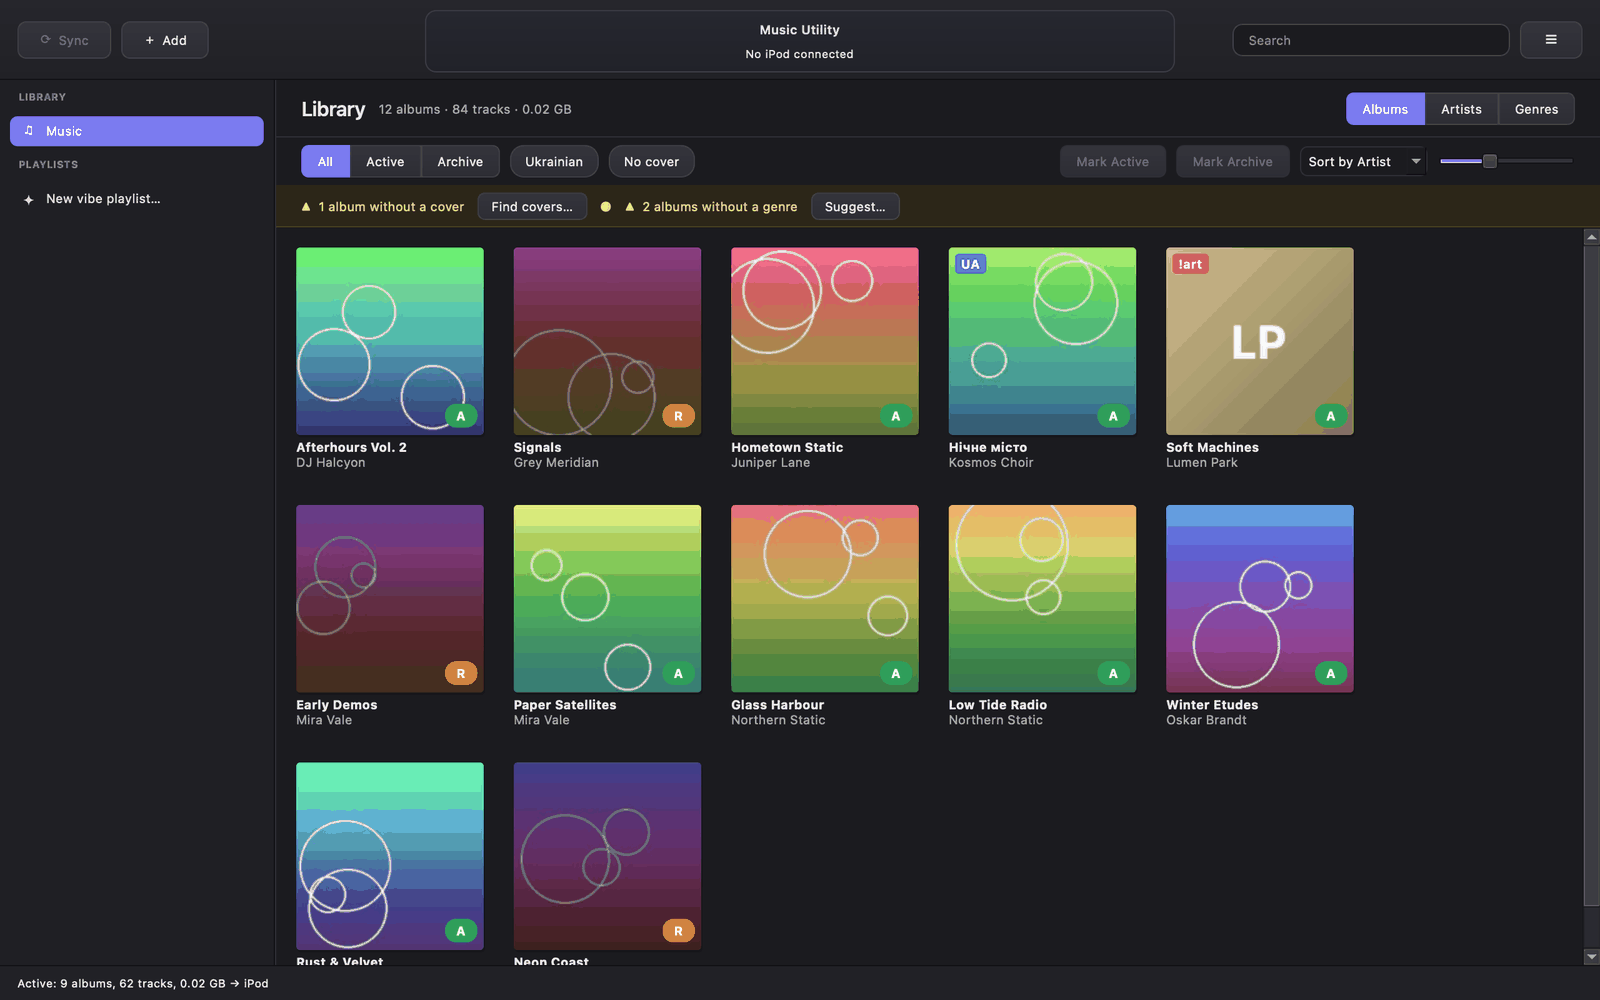
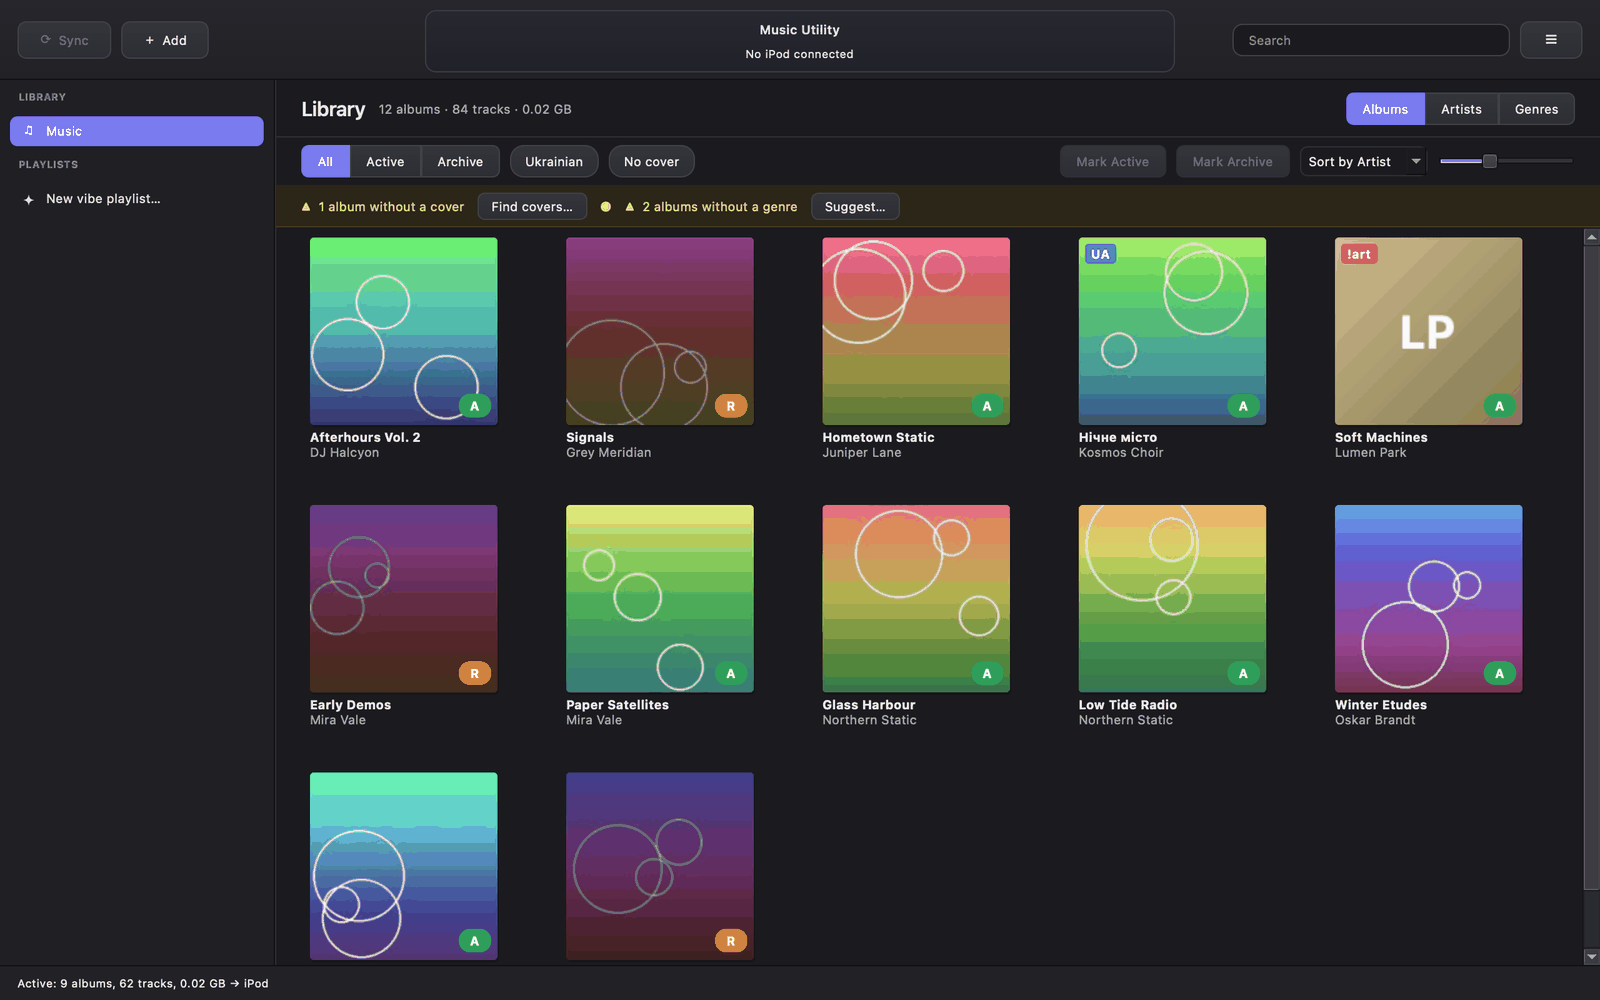
Window fixes, CI on three systems, sample tracklist
- window: tools that read a field work again (_text was shadowed by a
  string); justified album grid; long header paths cut in the middle;
  readable choice labels; Choose… for the iPod mount point; number
  fields without the shrunken arrows; only installed fonts requested;
  narrower artist list
- data/tracklist.example.txt with made-up tracks; the personal
  data/tracklist.txt is git-ignored
- GitHub Actions on Windows, macOS, Linux: requirements, ruff, smoke tests
- lint cleanup; README: Python 3.12+, CI badge, refreshed screenshots

Changed region(s): [[0.1875, 0.496, 0.9688, 0.961], [0.1875, 0.217, 0.9688, 0.465]]

diff --git a/src/gui/pages.py b/src/gui/pages.py
@@ -4,21 +4,27 @@ import os
 
 import settings
 from PyQt6.QtCore import QSize, Qt, QTimer, pyqtSignal
-from PyQt6.QtGui import QColor, QKeySequence, QShortcut
-from PyQt6.QtWidgets import (QAbstractItemView, QButtonGroup, QCheckBox, QComboBox, QCompleter,
+from PyQt6.QtGui import QColor
+from PyQt6.QtWidgets import (QAbstractItemView, QAbstractSpinBox, QButtonGroup, QCheckBox, QComboBox, QCompleter,
                              QDialog, QListWidget, QListWidgetItem, QPushButton,
                              QFileDialog, QFrame, QGridLayout, QHBoxLayout, QHeaderView,
                              QInputDialog, QLabel, QLineEdit, QListView, QPlainTextEdit,
                              QRadioButton, QScrollArea, QSlider, QSpinBox, QSplitter,
-                             QStackedWidget, QStyledItemDelegate, QTableWidget, QTableWidgetItem,
+                             QStackedWidget, QStyledItemDelegate, QStyleOptionViewItem, QTableWidget, QTableWidgetItem,
                              QTabWidget,
                              QVBoxLayout, QWidget)
 
 from gui import backend
 from gui.theme import C, COLUMNS, GLYPHS, UI
-from gui.widgets import (AlbumDelegate, AlbumModel, CapacityBar, Card, IpodPicture, ask,
+from gui.widgets import (AlbumDelegate, AlbumModel, CapacityBar, Card, ElidedLabel, IpodPicture, ask,
                          button, covers, fmt_gb, fmt_time, fmt_total, inform, muted, placeholder,
                          plural, run_async)
+
+
+# how the stored values of choice settings read in the window
+CHOICE_LABELS = {"active": "Active", "archive": "Archive", "auto": "Auto",
+                 "cli": "Claude Code (subscription)", "gemini": "Gemini (free key)",
+                 "api": "Anthropic API (paid)"}
 
 
 class Page(QWidget):
@@ -39,7 +45,8 @@ class Page(QWidget):
         self.head.setSpacing(10)
         self.title = QLabel(title)
         self.title.setObjectName("viewTitle")
-        self.sub = muted("", wrap=False)
+        self.sub = ElidedLabel()
+        self.sub.setProperty("muted", True)
         self.head.addWidget(self.title)
         self.head.addWidget(self.sub)
         self.head.addStretch(1)
@@ -154,6 +161,28 @@ class Grid(QListView):
     key_mark = pyqtSignal(str)
     key_open = pyqtSignal()
     key_escape = pyqtSignal()
+
+    def justify(self):
+        """Spread the columns over the whole width: no empty strip on the right."""
+        m, d = self.model(), self.itemDelegate()
+        if m is None or d is None or not m.rowCount():
+            return
+        hint = d.sizeHint(QStyleOptionViewItem(), m.index(0, 0))
+        # the view keeps a spacing-wide margin on both sides
+        width = self.viewport().width() - 2 * self.spacing() - 1
+        cols = max(1, width // (hint.width() + self.spacing()))
+        size = QSize(width // cols, hint.height() + self.spacing())
+        if size != self.gridSize():
+            self.setGridSize(size)
+
+    def resizeEvent(self, e):
+        super().resizeEvent(e)
+        self.justify()
+
+    def updateGeometries(self):
+        # also runs when the scroll bar comes or goes and the viewport changes width
+        super().updateGeometries()
+        QTimer.singleShot(0, self.justify)
 
     def keyPressEvent(self, e):
         k, t = e.key(), e.text().lower()
@@ -975,6 +1004,8 @@ class VibePage(Page):
         chips.addStretch(1)
         card.lay.addLayout(chips)
         self.count = QSpinBox()
+        # the styled frame leaves the native up/down arrows as specks: type, wheel or ↑↓
+        self.count.setButtonSymbols(QAbstractSpinBox.ButtonSymbols.NoButtons)
         self.count.setRange(5, 200)
         go = button("Make the playlist", primary=True)
         go.clicked.connect(self._go)
@@ -1325,7 +1356,7 @@ class SettingsPage(Page):
         values = values or settings.defaults()
         self.title.setText("Welcome to Music Utility" if self.first else "Settings")
         self.sub.setText("a few basic settings — everything can be changed later" if self.first
-                         else settings.FILE)
+                         else settings.FILE.replace(os.path.expanduser("~"), "~", 1))
         self.widgets.clear()
         self.errors.clear()
         section = None
@@ -1348,18 +1379,19 @@ class SettingsPage(Page):
             v = values.get(f.key)
             if f.kind == "choice":
                 w = QComboBox()
-                w.addItems(f.options)
-                if v in f.options:
-                    w.setCurrentText(v)
+                for opt in f.options:
+                    w.addItem(CHOICE_LABELS.get(opt, opt), opt)
+                w.setCurrentIndex(max(0, w.findData(v)))
             elif f.kind == "int":
                 w = QSpinBox()
+                w.setButtonSymbols(QAbstractSpinBox.ButtonSymbols.NoButtons)
                 w.setRange(1, 2 ** 31 - 1)       # settings.validate: any whole number > 0
                 try:
                     w.setValue(int(v))
                 except (TypeError, ValueError):
                     w.setValue(int(f.default))
-            elif f.kind in ("dir", "file"):
-                w = PathField(f.kind, "" if v is None else v)
+            elif f.kind in ("dir", "file") or f.key == "ipod_mount":
+                w = PathField("dir" if f.key == "ipod_mount" else f.kind, "" if v is None else v)
             else:
                 w = QLineEdit("" if v is None else str(v))
             grid.addWidget(label, 0, 0, Qt.AlignmentFlag.AlignTop)
@@ -1393,7 +1425,7 @@ class SettingsPage(Page):
         out = {}
         for key, w in self.widgets.items():
             if isinstance(w, QComboBox):
-                out[key] = w.currentText()
+                out[key] = w.currentData()
             elif isinstance(w, QSpinBox):
                 out[key] = str(w.value())
             elif isinstance(w, PathField):

diff --git a/src/gui/theme.py b/src/gui/theme.py
@@ -5,8 +5,10 @@ library) but the look is our own: flat light chrome, an indigo accent. Light by
 default; dark when the system is dark. Nothing visual is hard-coded elsewhere.
 """
 
+import functools
+
 from PyQt6.QtCore import QRect, Qt
-from PyQt6.QtGui import QColor, QFont, QGuiApplication, QIcon, QPainter, QPalette, QPixmap
+from PyQt6.QtGui import QColor, QFont, QFontDatabase, QGuiApplication, QIcon, QPainter, QPalette, QPixmap
 
 # Colours are "#RRGGBB" or "#AARRGGBB"; the ones only the stylesheet uses may be rgba().
 LIGHT = dict(
@@ -57,7 +59,7 @@ DARK = dict(
 )
 
 FONTS = dict(
-    mono='"Cascadia Mono", Consolas, Menlo, monospace',
+    mono=["Cascadia Mono", "Consolas", "Menlo", "DejaVu Sans Mono"],
     # symbol fonts first, so a symbol is drawn as a plain glyph, never as a colour emoji
     symbols=["Segoe UI Symbol", "Apple Symbols", "Noto Sans Symbols 2", "DejaVu Sans"],
 )
@@ -87,7 +89,7 @@ UI = dict(
     side_w=220, side_min=180, side_row=26, side_device_row=44, side_head=28, icon=16,
     side_capacity_h=4, side_eject=22, side_pad=6, side_gap=10,
     tile=150, tile_range=(100, 240), thumb=256, cover_large=640, detail_cover=220,
-    artists_w=230, ipod_picture=(112, 184), capacity_h=40, vibe_text_h=80,
+    artists_w=190, ipod_picture=(112, 184), capacity_h=40, vibe_text_h=80,
     close_button_w=30, slider_w=110,
     poll_ms=3000, sheet_refresh_ms=150, lcd_refresh_ms=250, eject_repoll_ms=1500,
     note_s=6, toast_ms=5000, toast_bad_ms=8000, toast_w=420, toast_gap=14, list_preview=12,
@@ -235,9 +237,16 @@ QToolTip {{ color: {text}; background: {sheet}; border: 1px solid {line}; }}
 """
 
 
+@functools.cache
+def _installed(kind):
+    # only the installed ones: a missing family makes Qt rebuild its font aliases
+    have = set(QFontDatabase.families())
+    return [f for f in FONTS[kind] if f in have] or FONTS[kind][-1:]
+
+
 def symbol_font(px):
     f = QFont()
-    f.setFamilies(FONTS["symbols"])
+    f.setFamilies(_installed("symbols"))
     f.setPixelSize(px)
     return f
 
@@ -276,4 +285,4 @@ def apply(app):
                       (QPalette.ColorRole.Link, "accent")):
         pal.setColor(role, QColor(C[key]))
     app.setPalette(pal)
-    app.setStyleSheet(QSS.format(**C, mono=FONTS["mono"]))
+    app.setStyleSheet(QSS.format(**C, mono=", ".join(f'"{f}"' for f in _installed("mono")) + ", monospace"))

diff --git a/tests/test_smoke.py b/tests/test_smoke.py
@@ -1,0 +1,47 @@
+"""Smoke checks that run anywhere without a library or an iPod.
+
+    python -m unittest discover tests
+"""
+
+import os
+import sys
+import tempfile
+import unittest
+
+ROOT = os.path.dirname(os.path.dirname(os.path.abspath(__file__)))
+sys.path.insert(0, os.path.join(ROOT, "src"))
+# a throwaway settings file: nothing here may touch the real one
+os.environ["MUSIC_UTILITY_SETTINGS"] = os.path.join(tempfile.mkdtemp(), "settings.json")
+
+from gui import backend  # noqa: E402  (plain Python: no Qt imported)
+
+
+class ToolArgs(unittest.TestCase):
+    def test_tools_that_read_a_field(self):
+        # _text was once shadowed by a string: every such tool failed
+        self.assertEqual(backend.tool_steps("vibe", {"vibe": "rain", "count": "10"}, False),
+                         [["vibe.py", "rain", "--count", "10"]])
+        self.assertEqual(backend.tool_steps("disk", {"drive": "/Volumes/X"}, False),
+                         [["ipod_sync.py", "--disk", "/Volumes/X"]])
+        self.assertEqual(backend.tool_steps("disk", {"drive": "E:"}, False),
+                         [["ipod_sync.py", "--disk", "E:"]])
+
+    def test_empty_field_is_a_message_not_a_crash(self):
+        with self.assertRaises(ValueError):
+            backend.tool_steps("vibe", {}, False)
+        with self.assertRaises(ValueError):
+            backend.tool_steps("disk", {"drive": "nonsense"}, False)
+
+
+class DiskMirror(unittest.TestCase):
+    def test_missing_device_is_refused(self):
+        import ipod_sync
+        missing = os.path.join(tempfile.mkdtemp(), "not-mounted")
+        with self.assertRaises(SystemExit) as e:
+            ipod_sync.sync_disk(missing, False, "Music")
+        self.assertIn("Drive not available", str(e.exception))
+        self.assertFalse(os.path.exists(missing))
+
+
+if __name__ == "__main__":
+    unittest.main()

diff --git a/src/gui/widgets.py b/src/gui/widgets.py
@@ -119,6 +119,38 @@ def button(text, primary=False, danger=False, tip=None):
     return b
 
 
+class ElidedLabel(QLabel):
+    """One line that fits: a long text (a path) is cut in the middle, whole in the tooltip."""
+
+    def __init__(self, text=""):
+        super().__init__()
+        self._full = ""
+        self.setText(text)
+
+    def setText(self, text):
+        self._full = str(text)
+        self._fit()
+        self.updateGeometry()
+
+    def text(self):
+        return self._full
+
+    def sizeHint(self):
+        return QSize(self.fontMetrics().horizontalAdvance(self._full) + 2, super().sizeHint().height())
+
+    def minimumSizeHint(self):
+        return QSize(0, super().minimumSizeHint().height())
+
+    def resizeEvent(self, e):
+        super().resizeEvent(e)
+        self._fit()
+
+    def _fit(self):
+        shown = self.fontMetrics().elidedText(self._full, Qt.TextElideMode.ElideMiddle, self.width())
+        super().setText(shown)
+        self.setToolTip(self._full if shown != self._full else "")
+
+
 def muted(text="", wrap=True):
     lab = QLabel(text)
     lab.setProperty("muted", True)

diff --git a/src/find_missing.py b/src/find_missing.py
@@ -231,7 +231,7 @@ def main():
             print(f"  ... {len(in_arc) - 15} more")
 
     if missing:
-        print(f"\n--- MISSING (top 25) ---")
+        print("\n--- MISSING (top 25) ---")
         for r in missing[:25]:
             if r["liked_here"]:
                 n = f"{r['liked_here']} liked"
@@ -245,7 +245,7 @@ def main():
             print(f"  ... {len(missing) - 25} more")
 
     if partial:
-        print(f"\n--- PARTIAL (top 20) ---")
+        print("\n--- PARTIAL (top 20) ---")
         for r in partial[:20]:
             print(f"  missing {r['tracks_missing']:2d} of {r['tracks_total']:2d}"
                   f"  {r['artist']} — {r['album'] or '(album unknown)'}")

diff --git a/src/gui/backend.py b/src/gui/backend.py
@@ -159,8 +159,8 @@ ABOUT = {
     "genres_suggest": ("The AI fills in a genre and a style for albums that aren't in the genres file yet. "
                        'Your corrections are never overwritten.'),
 }
-for _name, _text in ABOUT.items():
-    TOOLS[_name]["about"] = _text
+for _name, _about in ABOUT.items():
+    TOOLS[_name]["about"] = _about
 
 def tool_steps(tool, params, applying):
     """[[script, args...], ...] for one run. Raises ValueError on bad params."""

diff --git a/Main.py b/Main.py
@@ -124,7 +124,7 @@ class App:
             return True
         tui.clear()
         print("\n".join(tui.header("NO LIBRARY FOLDER")))
-        print(f"\n  The library folder isn't set or doesn't exist:")
+        print("\n  The library folder isn't set or doesn't exist:")
         print(f"  {FG['grey']}{self.cfg.get('library_dir') or '(empty)'}{RESET}")
         print("\n  Open Settings and set it.")
         tui.pause()

diff --git a/src/build_clean.py b/src/build_clean.py
@@ -45,7 +45,6 @@ from mutagen.id3 import (
     ID3,
     TALB,
     TCON,
-    TDRC,
     TIT2,
     TPE1,
     TPE2,

diff --git a/src/fetch_covers.py b/src/fetch_covers.py
@@ -19,7 +19,6 @@ import argparse
 import io
 import json
 import os
-import re
 import ssl
 import sys
 import time

diff --git a/README.md b/README.md
@@ -1,6 +1,7 @@
 # PodVault — Music Utility
 
-![Python](https://img.shields.io/badge/Python-3.10%2B-3776AB?logo=python&logoColor=white)
+[![CI](https://github.com/nzmnq/PodVault/actions/workflows/ci.yml/badge.svg)](https://github.com/nzmnq/PodVault/actions/workflows/ci.yml)
+![Python](https://img.shields.io/badge/Python-3.12%2B-3776AB?logo=python&logoColor=white)
 ![PyQt6](https://img.shields.io/badge/GUI-PyQt6-41CD52?logo=qt&logoColor=white)
 ![Platforms](https://img.shields.io/badge/platform-Windows%20%7C%20macOS%20%7C%20Linux-lightgrey)
 ![mutagen](https://img.shields.io/badge/tags-mutagen-8A2BE2)
@@ -51,7 +52,7 @@ a test setup).
 
 ## Installation
 
-Python 3.10+.
+Python 3.12+ (the pinned NumPy and SciPy need it).
 
 ```bash
 git clone --recurse-submodules https://github.com/nzmnq/PodVault.git
@@ -182,8 +183,10 @@ src/
   fetch_cover.py        iTunes covers for the tracklist
   sur_sound.py          spatial sound
 data/
-  tracklist.txt         the tracklist
+  tracklist.example.txt a sample tracklist (your own data/tracklist.txt is git-ignored)
 docs/screenshots/       README pictures
+tests/                  smoke tests: python -m unittest discover tests
+.github/workflows/      CI: lint and tests on Windows, macOS, Linux
 vendor/
   podsync/              the iPod database engine (git submodule)
 ```
@@ -294,7 +297,8 @@ library like any other new track. Already saved tracks aren't copied again.
 ## Tracklist format
 
 Used by the downloader and the iTunes cover fetcher. One track per line in
-`data/tracklist.txt` (the path is a setting):
+`data/tracklist.txt` (the path is a setting; the file is git-ignored). Start
+from the sample: copy `data/tracklist.example.txt` to `data/tracklist.txt`.
 
 ```text
 Artist | Title | Album | Composer | Year | Genre | Track Number | Disc Number | Cover Art URL
